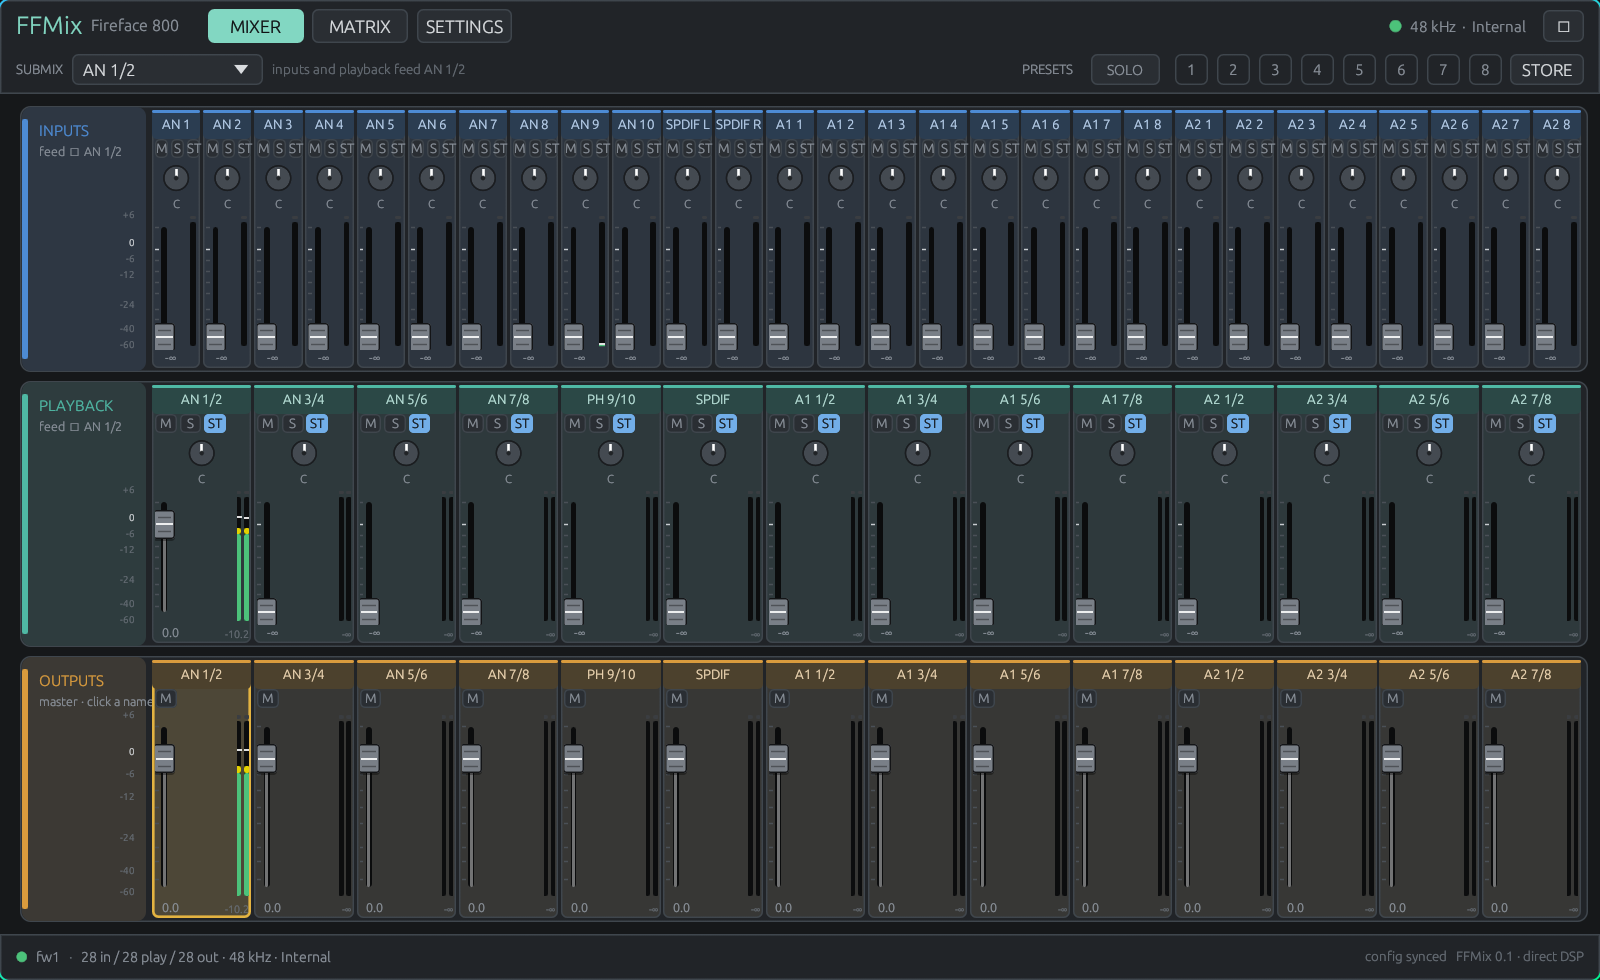
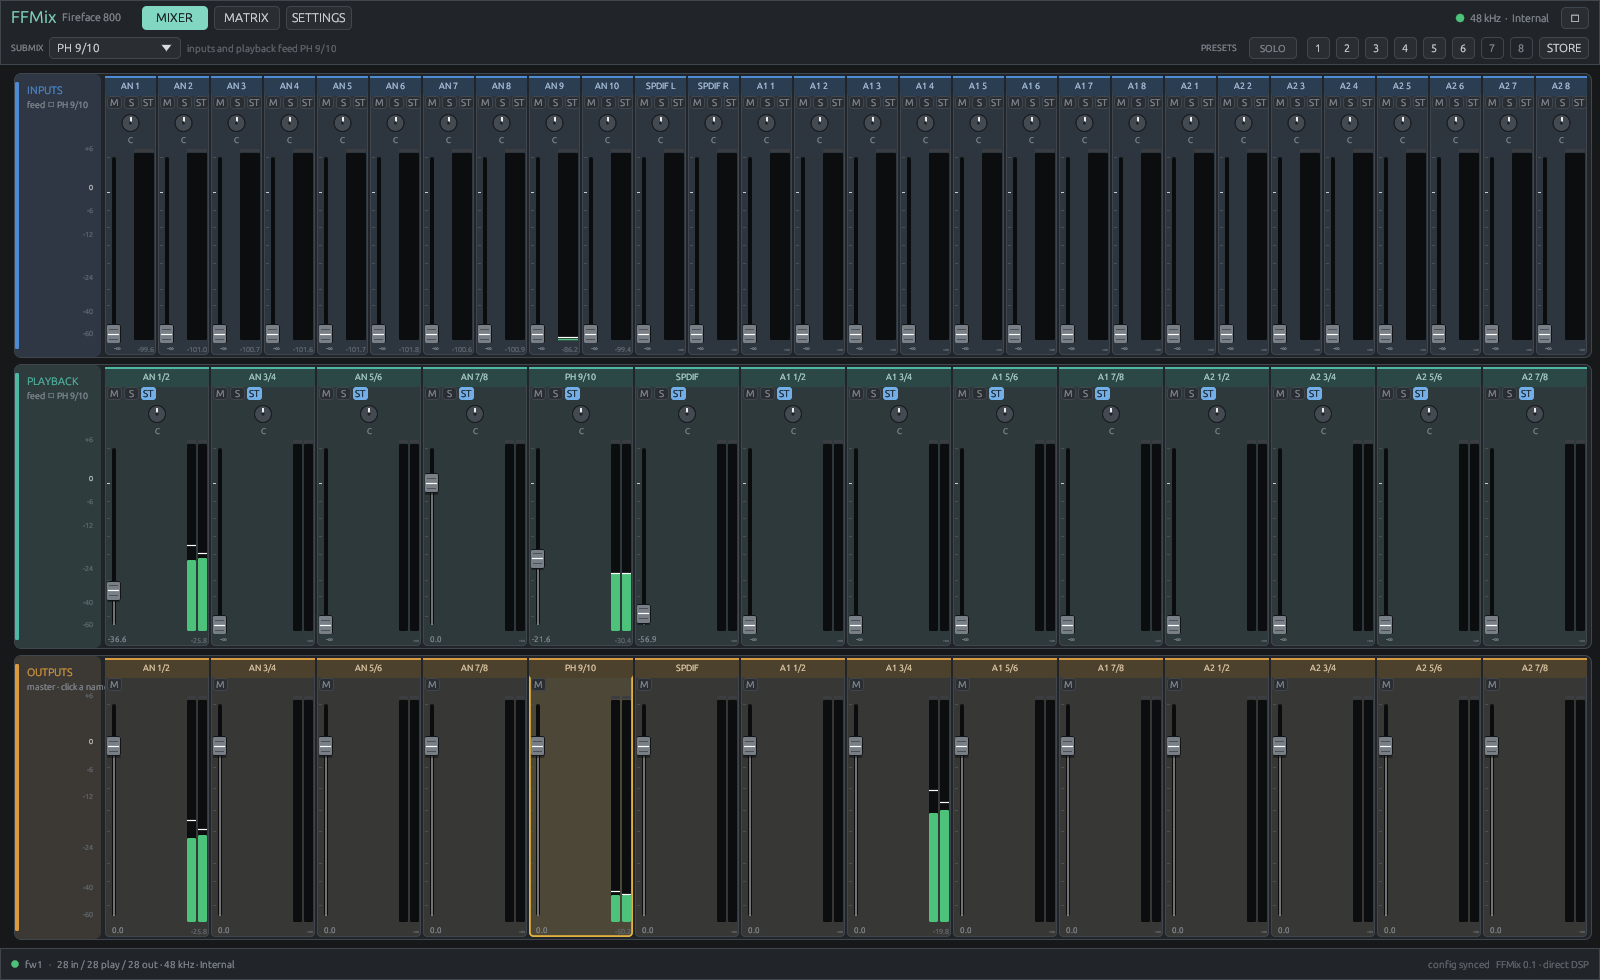
Widen mixer strip VU meters

diff --git a/src/app.rs b/src/app.rs
@@ -1012,7 +1012,13 @@ impl App {
             top_of_fader += 35.0;
         }
 
-        let meter_w = if rect.width() >= 38.0 { 8.0 } else { 6.0 };
+        let meter_w = if rect.width() >= 48.0 {
+            20.0
+        } else if rect.width() >= 35.0 {
+            16.0
+        } else {
+            12.0
+        };
         let fader_w = (rect.width() - meter_w - 6.0).clamp(13.0, 21.0);
         let fader_rect = Rect::from_min_max(
             Pos2::new(rect.left() + 2.0, top_of_fader),

diff --git a/src/widgets.rs b/src/widgets.rs
@@ -342,8 +342,8 @@ pub fn meter(
     let response = ui.interact(rect, id, Sense::click());
     let painter = ui.painter().with_clip_rect(rect);
     let channels = levels.len().max(1);
-    let bar_w = 4.0;
     let gap = 2.0;
+    let bar_w = ((rect.width() - gap * (channels - 1) as f32) / channels as f32).max(4.0);
     let total_w = channels as f32 * bar_w + (channels - 1) as f32 * gap;
     let x0 = rect.center().x - total_w / 2.0;
 

diff --git a/README.md b/README.md
@@ -93,8 +93,8 @@ makepkg -si
 ```
 
 The package installs the binary, desktop entry, icon, license and documentation. A
-prebuilt `ffmix-0.1.2-1-x86_64.pkg.tar.zst` is attached to the
-[v0.1.2 release](https://github.com/hansfbaier/ffmix/releases/tag/v0.1.2).
+prebuilt `ffmix-0.1.3-1-x86_64.pkg.tar.zst` is attached to the
+[v0.1.3 release](https://github.com/hansfbaier/ffmix/releases/tag/v0.1.3).
 
 <details>
 <summary><b>Build dependencies</b></summary>
@@ -144,7 +144,8 @@ quits.
 - **Pan, mute, solo, stereo link** — per-source pan and mute are folded into the gain
   matrix; solo is solo-in-place in the selected submix, like TotalMix.
 - **Meters** — real hardware values with 26 dB/s release, 1.5 s peak hold, numeric peak
-  readout and clip LEDs. Click a meter to reset its peak.
+  readout and clip LEDs. Mixer strips use wide stereo VU bars; click a meter to reset
+  its peak.
 - **Fader groups** — right-click a strip and assign one of four groups; grouped faders
   follow relative dB moves.
 - **Presets** — eight slots. `F1`…`F8` recall, `Shift+F1`…`F8` store, or use the
